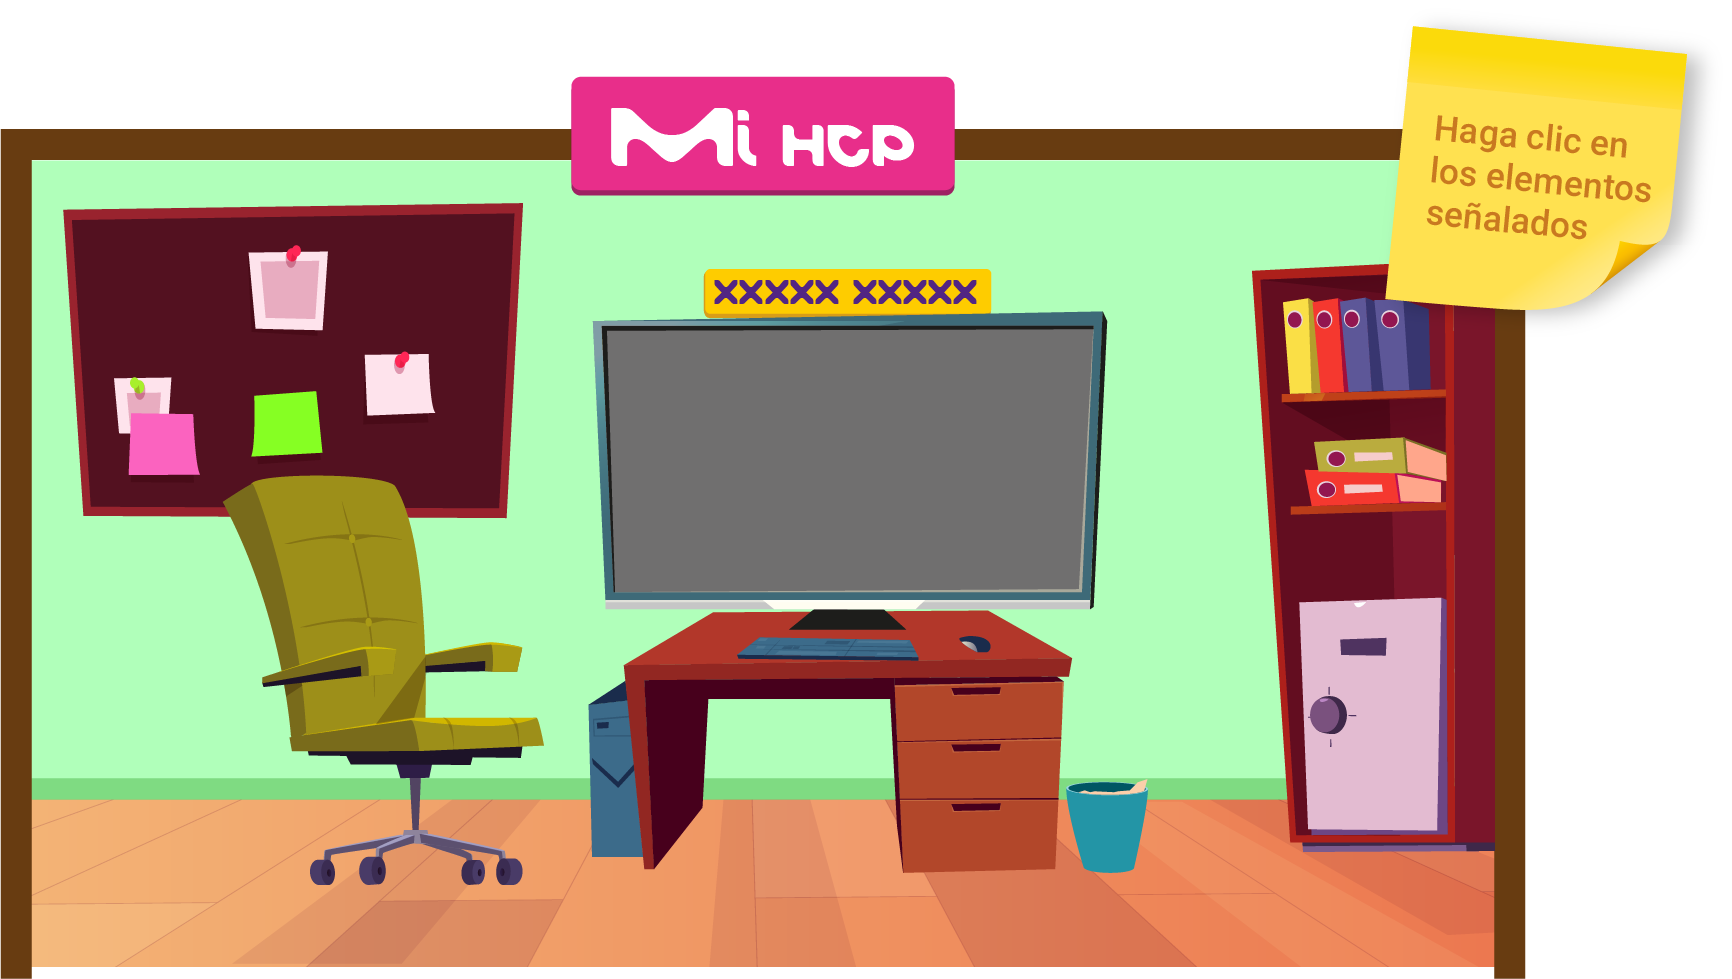
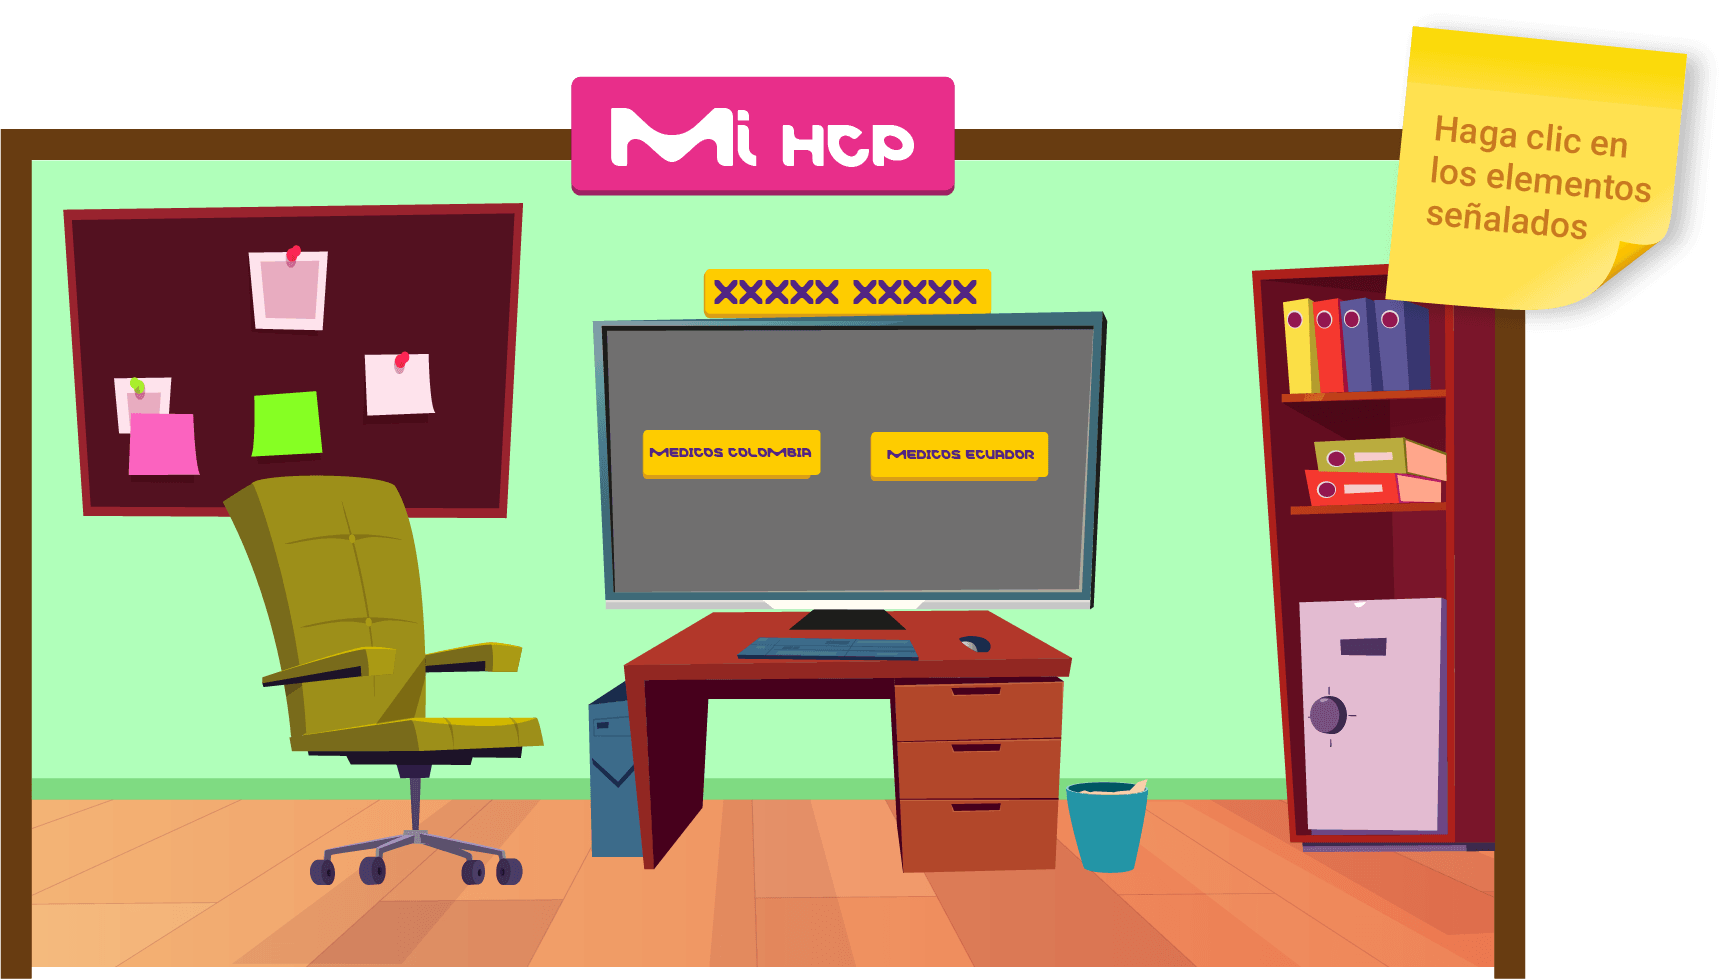
commit cambio final

Changed region(s): [[0.343, 0.429, 0.6236, 0.4903]]

diff --git a/src/views/screens/habitacion4/Habitacion4.jsx b/src/views/screens/habitacion4/Habitacion4.jsx
@@ -34,12 +34,14 @@ export default function Habitacion4() {
             <StyledItemLibros className="botiquin ">
               <img src="/images/home/recursos.png" alt="" />
             </StyledItemLibros>
-            <StyledItemPc className="botiquin ">
+            {/* <StyledItemPc className="botiquin ">
               <img src="/images/home/pc.png" alt="" />
-            </StyledItemPc>
+            </StyledItemPc> */}
             <StyledItemHojas className="botiquin ">
               <img src="/images/home/hojas.png" alt="" />
             </StyledItemHojas>
+            <a href="" className="absolute w-[10.4%] h-[6%] top-[43%] left-[37%]"></a>
+            <a href="" className="absolute w-[11.4%] h-[7%] top-[43%] left-[50%]"></a>
 
             {/* Puertas navegacion*/}
             <StyledItemPuerta
@@ -94,9 +96,12 @@ Habitacion4.Mobile = () => {
   return (
     <Fragment>
       <div className="container">
-        <StyledItemPc className="botiquin ">
+        {/* <StyledItemPc className="botiquin ">
           <img src="/images/home/pc.png" alt="" />
-        </StyledItemPc>
+        </StyledItemPc> */}
+
+          <a href="" className=" absolute w-[29.4%] h-[5%] top-[37%] left-[32%]"></a>
+          <a href="" className=" absolute w-[26.4%] h-[5%] top-[43%] left-[32%]"></a>
 
         <StyledColor
           className="puerta"
@@ -116,9 +121,12 @@ Habitacion4.Tablet = () => {
   return (
     <Fragment>
       <div className="container">
-        <StyledItemPc className="botiquin ">
+        {/* <StyledItemPc className="botiquin ">
           <img src="/images/home/tv-tablet-8.png" alt="" />
-        </StyledItemPc>
+        </StyledItemPc> */}
+
+<a href="" className=" absolute w-[30.4%] h-[7%] top-[25%] left-[35%]"></a>
+            <a href="" className=" absolute w-[30.4%] h-[7%] top-[33.1%] left-[35%]"></a>
 
         <StyledColor
           className="puerta"

diff --git a/src/views/screens/Home/Home.jsx b/src/views/screens/Home/Home.jsx
@@ -242,9 +242,7 @@ Home.MyHCP = () => {
 
 Home.CreatorZone = () => {
   return (
-    <StyledContentExperenceCreator
-      onClick={() => (window.location.href = "/habitacion-5")}
-    >
+    <StyledContentExperenceCreator href="https://drive.google.com/file/d/1-o7kgslrFDMYoTUHhypf1-D0cTTKx7mV/view?usp=drive_web" target="_blank">
       <div className="parent">
         <div className="child">
           <StyledTitle className="trata">Creador de experiencias</StyledTitle>
@@ -256,11 +254,11 @@ Home.CreatorZone = () => {
 
 Home.ZoneHCP = ({ setOpenModal }) => {
   return (
-    <StyledContentRegister href="https://drive.google.com/file/d/1-o7kgslrFDMYoTUHhypf1-D0cTTKx7mV/view?usp=drive_web" target="_blank">
+    <StyledContentRegister>
       <div className="parent">
         <div className="child">
           <StyledTitle className="trata">
-          Creador de experiencias
+          
           </StyledTitle>
         </div>
       </div>

diff --git a/src/views/screens/Home/home.styles.js b/src/views/screens/Home/home.styles.js
@@ -173,7 +173,7 @@ export const StyledContentHCP = styled.div`
   }
 `;
 
-export const StyledContentExperenceCreator = styled.div`
+export const StyledContentExperenceCreator = styled.a`
   ${tw`w-[34.4%] h-[21.5%] absolute top-[68.5%] left-[9%] flex justify-center items-center cursor-pointer`}
 
   @media (max-width: 1024px) {
